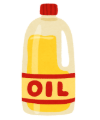
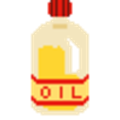
ステージの画像をドット柄に変更

Changed region(s): [[0.21, 0.0, 0.78, 0.975], [0.42, 0.2, 0.57, 0.25], [0.72, 0.275, 0.75, 0.375]]

diff --git a/Source/ItemTable.cpp b/Source/ItemTable.cpp
@@ -6,13 +6,13 @@ namespace {
 
 	constexpr ItemDef ITEM_DEFS[] = {
 		{1,0,"GreenOnion.png"},    {1,1,"Ginger.png"},     {1,2,"SoySauce.png"},
-		{2,0,"Kelp.png"},   {2,1,"GreenOnion.png"},       {2,2,"Ponzu.png"},
-		{3,0,"Oil.png"},     {3,1,"GreenOnion.png"},       {3,2,"SoySauce.png"},
-		{4,0,"Miso.png"},    {4,1,"GreenOnion.png"},       {4,2,"Wakame.png"},
-		{5,0,"Garlic.png"},  {5,1,"GroundMeat.png"},   {5,2,"Doubanjiang.png"},
-		{6,0,"Beef.png"}, {6,1,"GreenOnion.png"},       {6,2,"Sauce.png"},
-		{7,0,"NoodleDippingSauce.png"}, {7,1,"GreenOnion.png"},       {7,2,"Oil.png"},
-		{8,0,"GojiBerries.png"},{8,1,"AlmondPaste.png"}, {8,2,"Milk.png"},
+		{2,0,"Konbu.png"},   {2,1,"Green Onion.png"},       {2,2,"Ponzu.png"},
+		{3,0,"Oil.png"},     {3,1,"Green Onion.png"},       {3,2,"Soy Sauce.png"},
+		{4,0,"Miso.png"},    {4,1,"Green Onion.png"},       {4,2,"Wakame.png"},
+		{5,0,"Garlic.png"},  {5,1,"Beef.png"},   {5,2,"Doubanjiang.png"},
+		{6,0,"Beef.png"}, {6,1,"Green Onion.png"},       {6,2,"Sauce.png"},
+		{7,0,"Noodle Dipping Sauce.png"}, {7,1,"Green Onion.png"},       {7,2,"Oil.png"},
+		{8,0,"Goji Berries.png"},{8,1,"Almond Paste.png"}, {8,2,"Milk.png"},
 	};
 
 	constexpr DishDef DISH_DEFS[] = {
